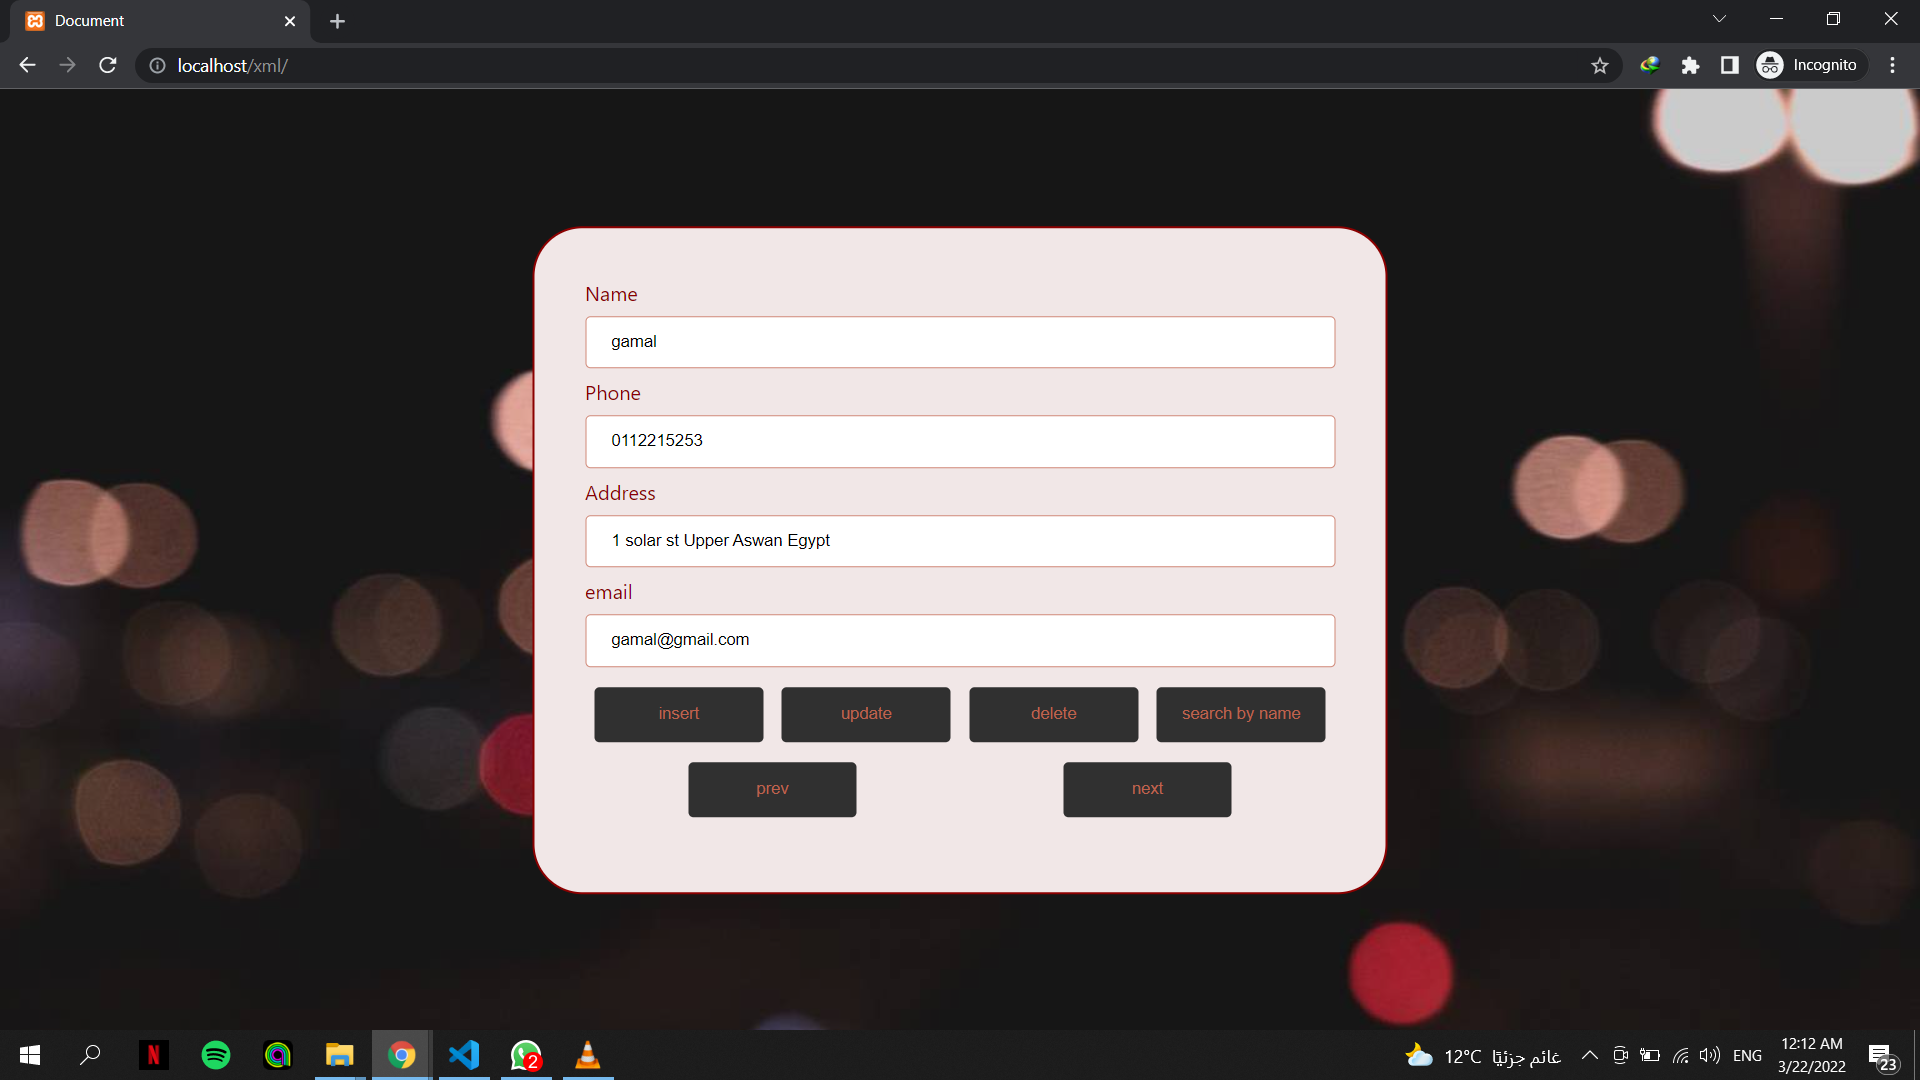
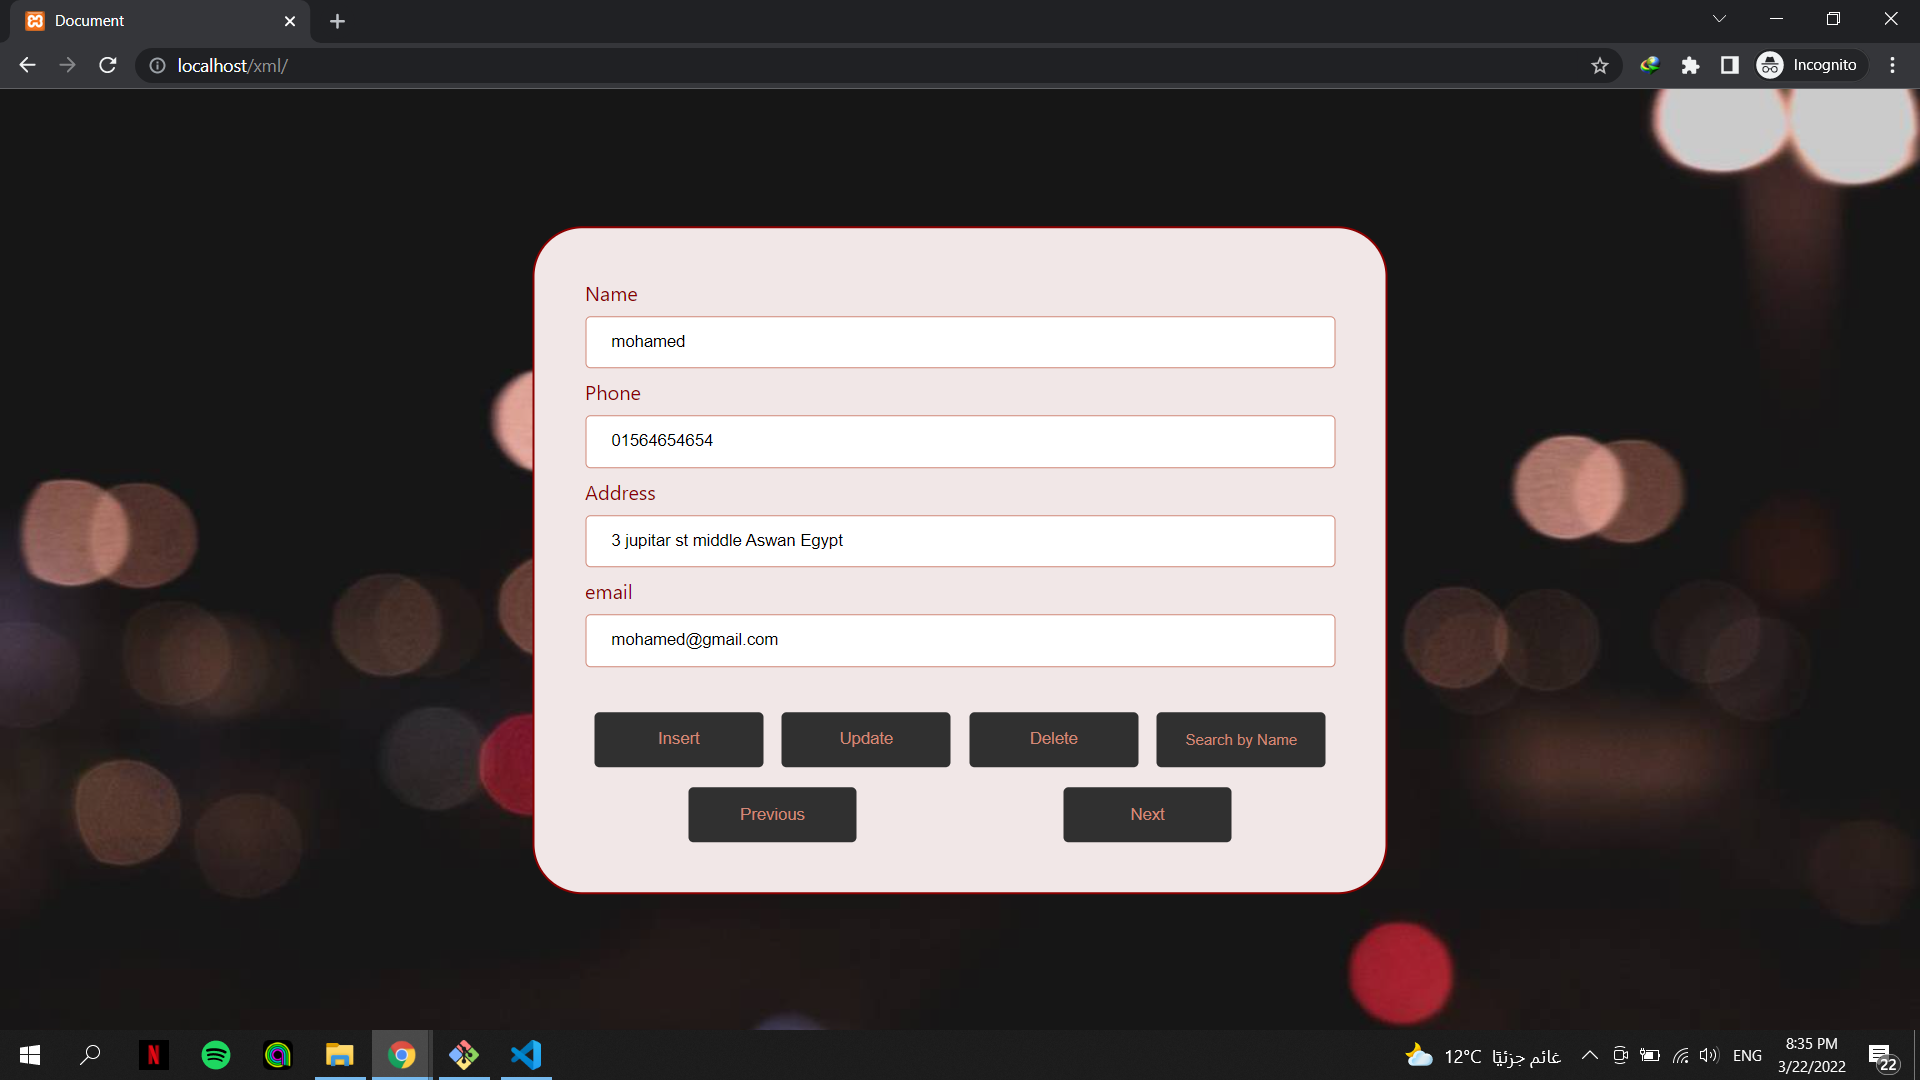
update

diff --git a/index.html b/index.html
@@ -5,7 +5,7 @@
     <meta http-equiv="X-UA-Compatible" content="IE=edge">
     <meta name="viewport" content="width=device-width, initial-scale=1.0">
     <title>Document</title>
-    <link rel="stylesheet" href="style.css">
+    <link rel="stylesheet" href="resources/style.css">
 </head>
 <body>
     <div class="container">
@@ -30,8 +30,8 @@
         
         <div class="btn">
             <button class="bts" onclick="insertData()">Insert</button>
-            <button class="bts">Update</button>
-            <button class="bts">Delete</button>
+            <button class="bts" onclick="updateData()">Update</button>
+            <button class="bts" onclick="deleteData()">Delete</button>
             <button class="bts" onclick="searchbyName()" style="font-size: 12px; padding: 15.5px 20px;">Search by Name</button>
         </div>
         <div class="btn">
@@ -41,89 +41,7 @@
 
     </div>
 
-    <script>
-        let i = 0;
-        let xml = null;
-
-         document.addEventListener('DOMContentLoaded', ()=>{
-            //fetch the data as soon as the page has loaded
-            fetch('emps.xml')
-            .then(response=>response.text())
-            .then(data=>{
-                //console.log(data);  //string
-                let parser = new DOMParser();
-                xml = parser.parseFromString(data, "application/xml");
-                //console.log(xml)
-                printData();
-                
-            });
-        })
-
-        function nextb(){
-            if(i<xml.getElementsByTagName("name").length-1){
-                i++;
-                printData();
-            }
-        }
-
-        function prevb(){
-            if(i>0){
-                i--;
-                printData();
-            }
-        }
-
-        function searchbyName(){
-            nameToSearch = nameID.value;
-            for(let j=0 ; j<xml.getElementsByTagName("name").length;j++){
-                if(nameToSearch == xml.getElementsByTagName("name")[j].firstChild.nodeValue){
-                    i = j;
-                    break;
-                }else{
-                    continue;
-                }
-            }
-            printData();
-        }
-
-        function insertData(){
-            var employee = xml.createElement("employee");
-            var name = xml.createElement("name");
-            name.appendChild(xml.createTextNode(nameID.value));
-            var phone = xml.createElement("phone");
-            phone.appendChild(xml.createTextNode(phoneID.value));
-            var address = xml.createElement("address");
-            address.appendChild(xml.createTextNode(addressID.value));
-            var email = xml.createElement("email");
-            email.appendChild(xml.createTextNode(emailID.value));
-            employee.appendChild(name);
-            employee.appendChild(phone);
-            employee.appendChild(address);
-            employee.appendChild(email);
-            xml.getElementsByTagName("emps")[0].appendChild(employee);
-            console.log(xml)
-
-            /*const fs = require('fs')
-  
-            // Data which will write in a file.
-            let data = "Learning how to write in a file."
-            
-            // Write data in 'Output.txt' .
-            fs.writeFile('Output.txt', data, (err) => {
-                
-                // In case of a error throw err.
-                if (err) throw err;
-            })*/
-        }
-
-        function printData(){
-            nameID.value = xml.getElementsByTagName("name")[i].firstChild.nodeValue;
-            phoneID.value = xml.getElementsByTagName("phone")[i].firstChild.nodeValue;
-            addressID.value = xml.getElementsByTagName("address")[i].firstChild.nodeValue;
-            emailID.value = xml.getElementsByTagName("email")[i].firstChild.nodeValue;
-        }
-
-        
-    </script>
+    <script src="resources/funs.js"></script>
+    
 </body>
 </html>

diff --git a/resources/funs.js b/resources/funs.js
@@ -1,0 +1,94 @@
+let i = 0;
+    let xml = null;
+
+        document.addEventListener('DOMContentLoaded', ()=>{
+        //fetch the data as soon as the page has loaded
+        fetch('resources/emps.xml')
+        .then(response=>response.text())
+        .then(data=>{
+            //console.log(data);  //string
+            let parser = new DOMParser();
+            xml = parser.parseFromString(data, "application/xml");
+            console.log(xml)
+            printData();
+            
+        });
+    })
+
+    function nextb(){
+        if(i<xml.getElementsByTagName("name").length-1){
+            i++;
+            printData();
+        }
+    }
+
+    function prevb(){
+        if(i>0){
+            i--;
+            printData();
+        }
+    }
+
+    function searchbyName(){
+        nameToSearch = nameID.value;
+        for(let j=0 ; j<xml.getElementsByTagName("name").length;j++){
+            if(nameToSearch == xml.getElementsByTagName("name")[j].firstChild.nodeValue){
+                i = j;
+                break;
+            }else{
+                continue;
+            }
+        }
+        printData();
+    }
+
+    function insertData(){
+        var employee = xml.createElement("employee");
+        var name = xml.createElement("name");
+        name.appendChild(xml.createTextNode(nameID.value));
+        var phone = xml.createElement("phone");
+        phone.appendChild(xml.createTextNode(phoneID.value));
+        var address = xml.createElement("address");
+        address.appendChild(xml.createTextNode(addressID.value));
+        var email = xml.createElement("email");
+        email.appendChild(xml.createTextNode(emailID.value));
+        employee.appendChild(name);
+        employee.appendChild(phone);
+        employee.appendChild(address);
+        employee.appendChild(email);
+        xml.getElementsByTagName("emps")[0].appendChild(employee);
+        console.log(xml)
+
+        //var data = new Blob([xml], {type: 'text/plain'});
+        /*const fs = require('fs')
+
+        // Data which will write in a file.
+        let data = "Learning how to write in a file."
+        
+        // Write data in 'Output.txt' .
+        fs.writeFile('Output.txt', data, (err) => {
+            
+            // In case of a error throw err.
+            if (err) throw err;
+        })*/
+    }
+
+    function updateData(){
+        x = xml.getElementsByTagName("employee")[i];
+        x.parentNode.removeChild(x);
+        insertData();
+    }
+
+    function deleteData(){
+        x = xml.getElementsByTagName("employee")[i];
+        x.parentNode.removeChild(x);
+        printData();
+        console.log(xml);
+    }
+
+    function printData(){
+        nameID.value = xml.getElementsByTagName("name")[i].firstChild.nodeValue;
+        phoneID.value = xml.getElementsByTagName("phone")[i].firstChild.nodeValue;
+        addressID.value = xml.getElementsByTagName("address")[i].firstChild.nodeValue;
+        emailID.value = xml.getElementsByTagName("email")[i].firstChild.nodeValue;
+    }
